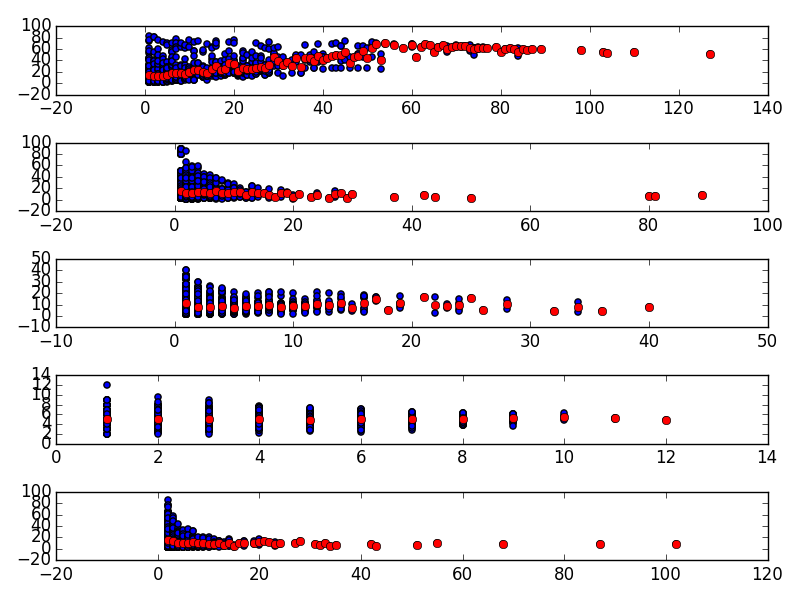
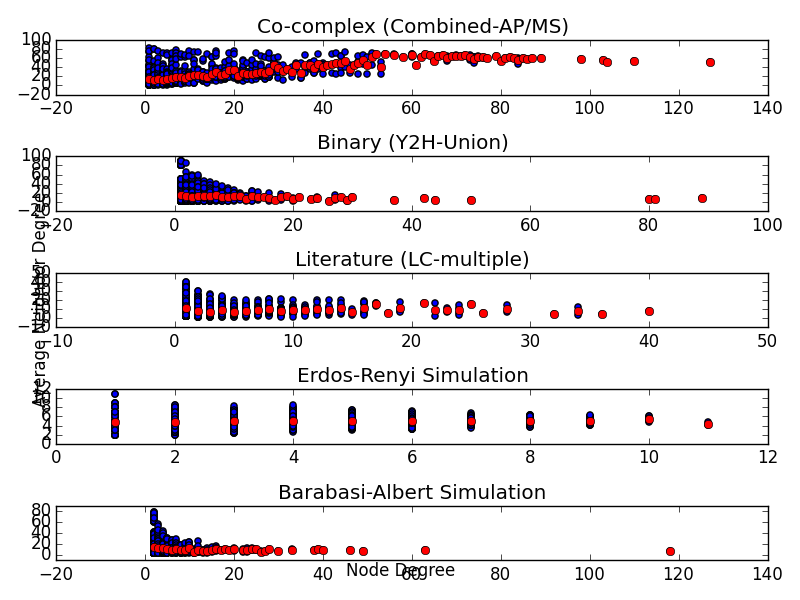
Trying to make common figure legends

diff --git a/hw2.py b/hw2.py
@@ -403,7 +403,7 @@ def plot_AND_data(prefix,data,avg_data):
     return
 
 
-def plot_AND_dataset(prefix, data_ls, avg_ls):
+def plot_AND_dataset(prefix, data_ls, avg_ls, title_ls=None):
     """
     plots the average neighbor degree for each of the datasets given in data_ls and avg_ls (see the AND data functions for details)
     """
@@ -419,13 +419,17 @@ def plot_AND_dataset(prefix, data_ls, avg_ls):
         y = data_ls[i][1:]
         for xe,ye in zip(x,y):
             row.scatter([xe] * len(ye), ye)
-        #row.xlabel('Node Degree')
-        #row.ylabel('Average Neighbor Degree')
         avg_x = list(range(1,len(avg_ls[i])))
         avg_y = avg_ls[i][1:]
         row.plot(avg_x,avg_y,'or')
+        if title_ls != None:
+            row.set_title(title_ls[i])
+            
         i += 1
+    
     fig.tight_layout()
+    fig.text(0.5,0.04,'Node Degree',ha='center')
+    fig.text(0.04,0.5,'Average Neighbor Degree',va='center', rotation='vertical')
 
     fig.savefig(prefix+'.png')
     return
@@ -527,7 +531,7 @@ def main():
     
     adj_lists = [collins_adj, y2h_adj, lc_adj, ER_adj, BA_adj]
     lcc_ls = [collins_lcc, y2h_lcc, lc_lcc, ER_lcc, BA_lcc]
-
+    title_ls = ['Co-complex (Combined-AP/MS)', 'Binary (Y2H-Union)', 'Literature (LC-multiple)', 'Erdos-Renyi Simulation', 'Barabasi-Albert Simulation']
     
     d_hist_data = deg_hist_ls(adj_lists, lcc_ls)
     
@@ -544,7 +548,7 @@ def main():
     
     BA_AND_data, BA_avgs = get_AND_plot_data(BA_adj, BA_lcc)
 
-    plot_AND_dataset('test5', AND_data_ls, avg_data_ls)
+    plot_AND_dataset('test5', AND_data_ls, avg_data_ls, title_ls)
     
     print(BA_avgs)
 
